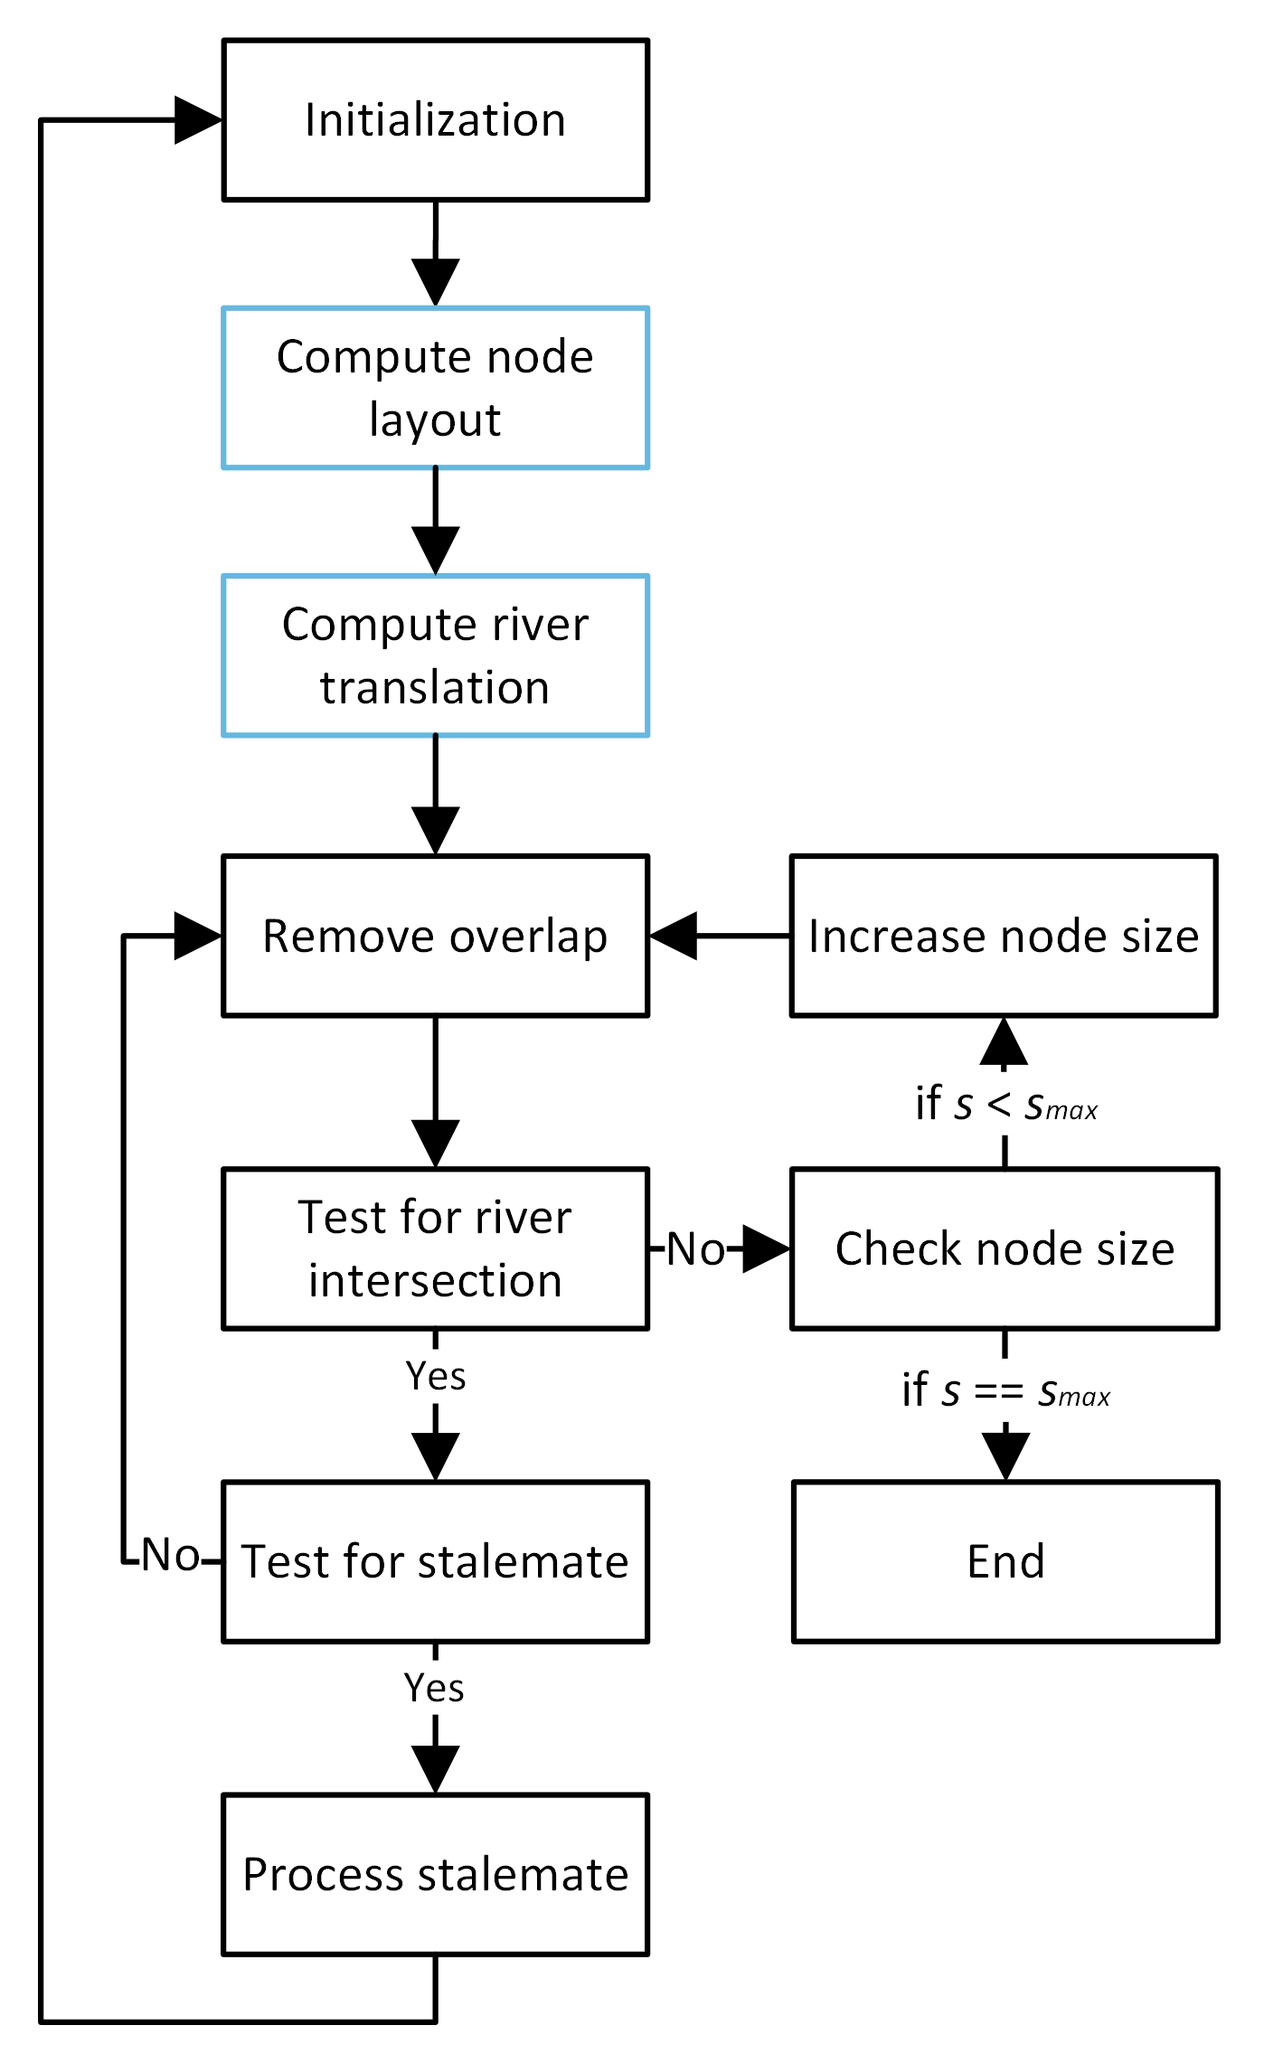
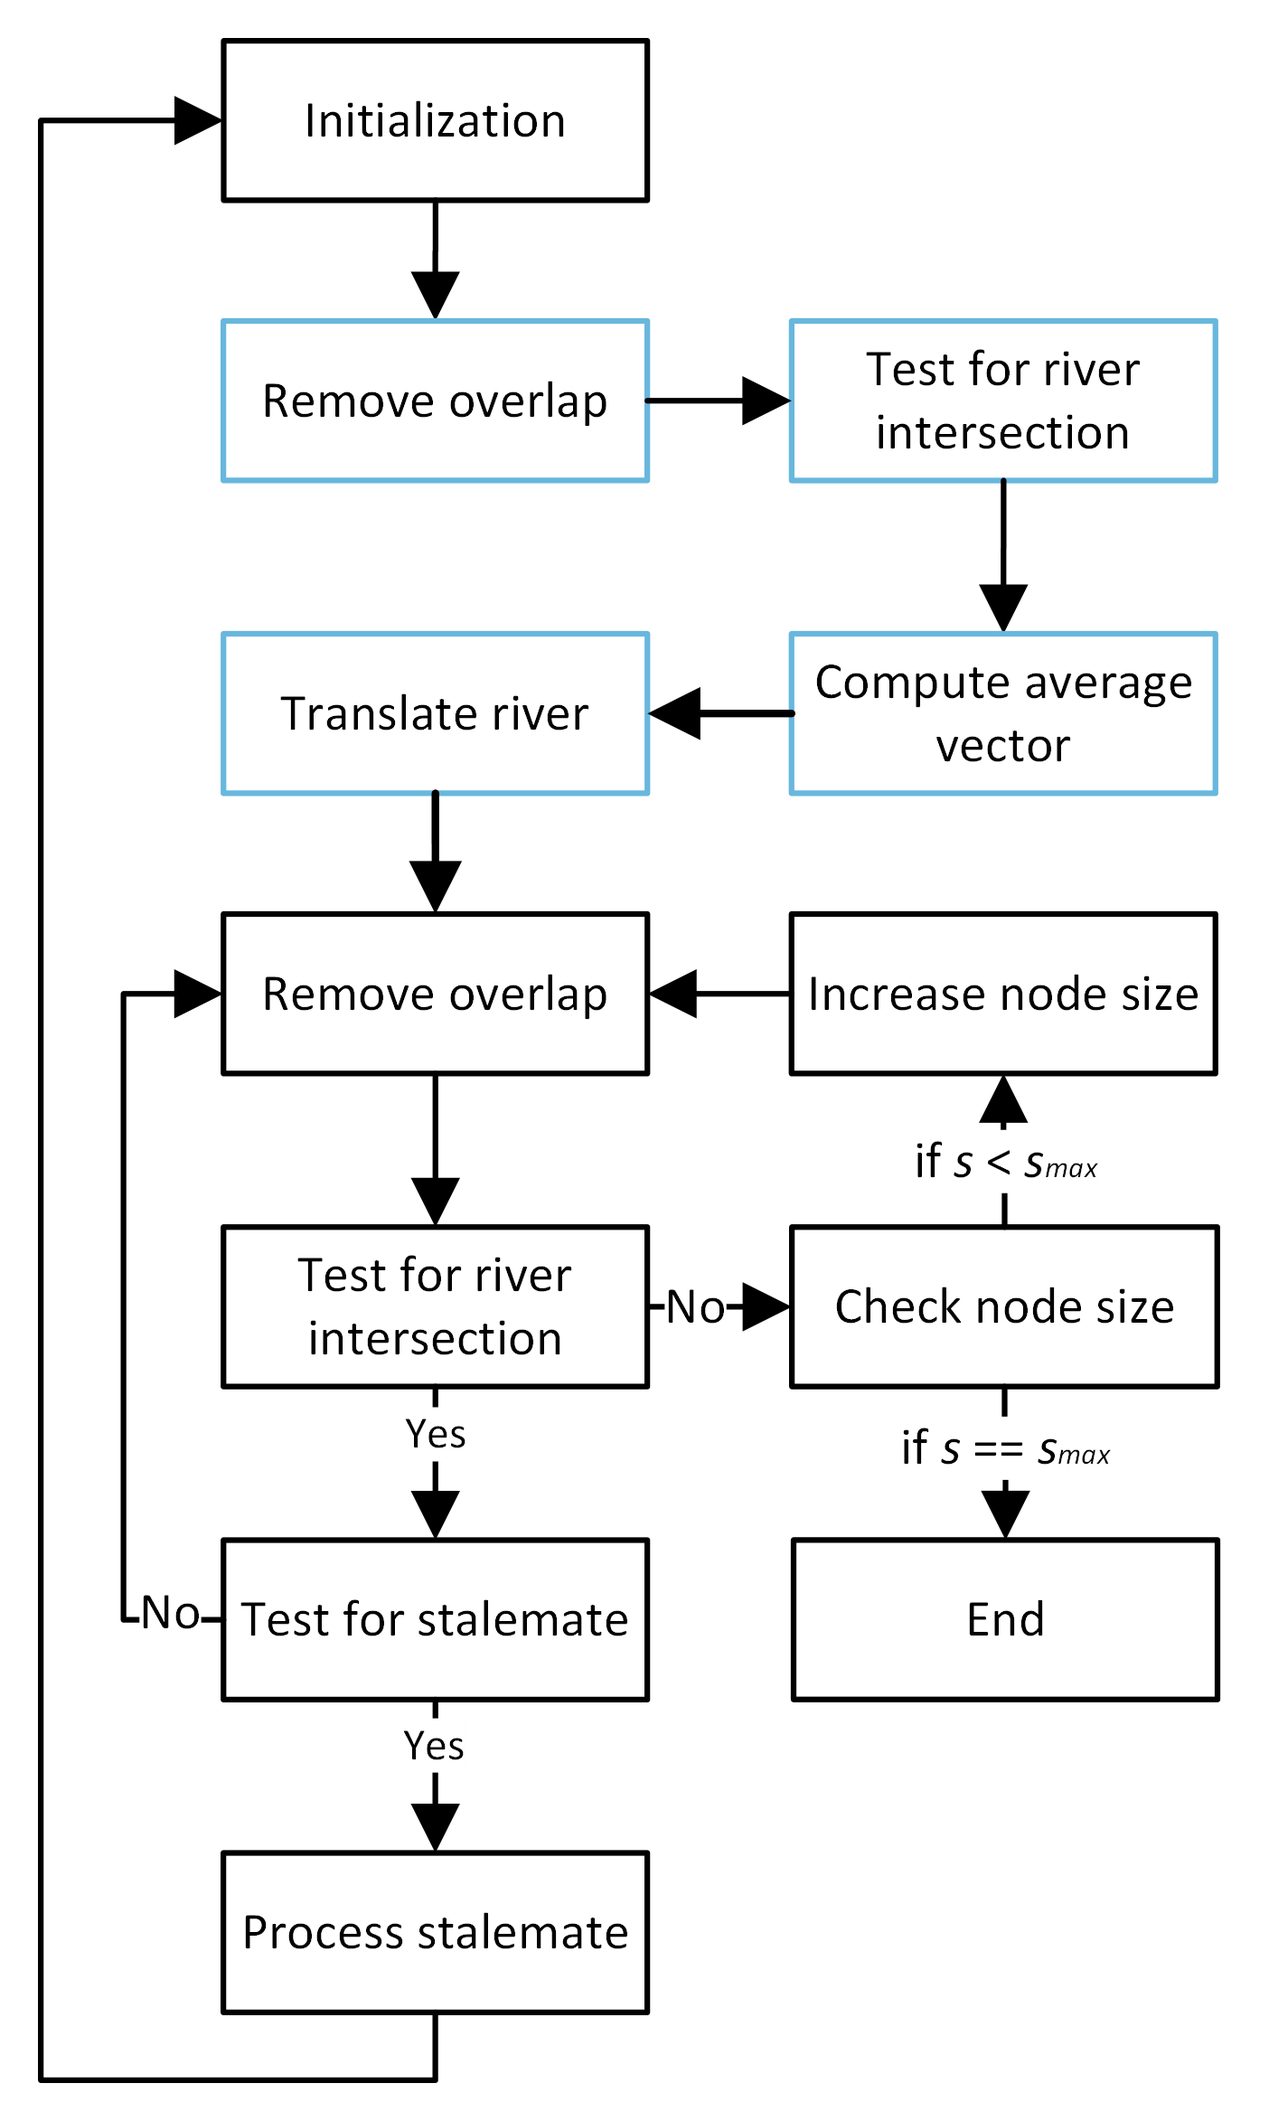
draft: update algorithm

diff --git a/paper/section/main.tex b/paper/section/main.tex
@@ -1,29 +1,29 @@
 \section{Cartograms with Dynamic Features}
 
-{
-\begin{figure}[tb!]
-    \centering
-    \includegraphics[width=\columnwidth]{example-image-a}
-    \caption{An screenshot of \software. Figure TBA.}
-    \label{fig:overview}
-\end{figure}
-}
+ {
+  \begin{figure}[tb!]
+      \centering
+      \includegraphics[width=\columnwidth]{example-image-a}
+      \caption{An screenshot of \software. Figure TBA.}
+      \label{fig:overview}
+  \end{figure}
+ }
 
-{
-    \begin{figure}[tb!]
-        \centering
-        \includegraphics[width=0.8\columnwidth]{figure/flowchart.png}
-        \caption{A flowchart illustration of our layout algorithm.See \figref{fig:flowchart-stalemate} for the flow of processing stalemate. See also \algoref{alg:UpdateNodePosition} for more detail.}
-        \label{fig:flowchart}
-    \end{figure}
+ {
+  \begin{figure}[tb!]
+      \centering
+      \includegraphics[width=0.8\columnwidth]{figure/flowchart.png}
+      \caption{A flowchart illustration of our layout algorithm.See \figref{fig:flowchart-stalemate} for the flow of processing stalemate. See also \algoref{alg:UpdateNodePosition} for more detail.}
+      \label{fig:flowchart}
+  \end{figure}
 
-    \begin{figure}[tb!]
-        \centering
-        \includegraphics[width=0.9\columnwidth]{figure/flowchart stalemate.png}
-        \caption{A flowchart illustration of stalemate processing.}
-        \label{fig:flowchart-stalemate}
-    \end{figure}
-}
+  \begin{figure}[tb!]
+      \centering
+      \includegraphics[width=0.9\columnwidth]{figure/flowchart stalemate.png}
+      \caption{A flowchart illustration of stalemate processing.}
+      \label{fig:flowchart-stalemate}
+  \end{figure}
+ }
 
 \algoref{alg:UpdateNodePosition} and \figref{fig:flowchart} provide an overview of the process.
 
@@ -31,15 +31,16 @@
 
 \bobgraph{Node layout:} The basic algorithm is as follows: we first apply the Fast Node Overlap Removal (FNOR) algorithm that solves the Variable Placement with Separation Constraints (VPSC) problem \cite{dwyer2006fast} in order to remove overlaps. We chose FNOR over other node overlap removal algorithms because FNOR is able to provide spread minimization and node movement minimization while maintaining a good level of global shape preservation \cite{chen2020Node}. We gradually increase the node size by 1 unit at a time to ensure smooth transitions. An increase in $ \nodeSize $ can cause the nodes to overlap. During overlap removal, we compute node trajectories (See \algoref{alg:check river intersection}) and translate nodes to their new position. Nodes that cross a river are translated back to their previous position. If a node oscillates across a river, we process this as a stalemate. This procedure ends when 1) no node overlap is present; 2) no nodes cross a river. We then increase $ \nodeSize $ by one pixel and repeat the algorithm until the max node size $ \nodeSizeMax $ is reached. The gradual size increase process provides stability to the layout and helps minimize geographical error.
 
-% \begin{noindent}
+
 
 \begin{algorithm}[tb!]
-    \caption{Procedure to update node positions by removing overlap and prevent nodes from crossing rivers.}\label{alg:UpdateNodePosition}
+    \caption{Procedure to adjust river positions, remove node overlap and prevent nodes from crossing rivers.}\label{alg:UpdateLayout}
     \textbf{Global variables:} \\
     $ \nodeList \gets $ a list of $ \node $ representing CCGs with the following properties: \\
-    \-\hspace{1em} $ \nodeListCross \gets True $ if any $ \node $ in $ \nodeList $ crosses a river \\
+    \-\hspace{1em}  \textcolor{blue}{$\nodeListCross \gets $ the number of $ \node $ in $ \nodeList $ that crosses a river} \\
     $ \nodeSize \gets $ the current size of all nodes \\
     $ \nodeSizeMax \gets $ the maximum size of a node \\
+    \textcolor{blue}{ $ \riverList \gets $ a list of $ \river $ representing river features} \\
     $ \stalemateMax \gets $ the maximum number of iterations indicating a stalemate \\
 
     \textbf{Local variables:} \\
@@ -49,17 +50,95 @@
     \-\hspace{1em} $ \nodePrevious \gets $ the previous position of $ \node $ \\
     \-\hspace{1em} $ \nodeFNOR \gets $ the translated position of $ \node $ \\
 
+    \begin{algorithmic}[1]
+        \Procedure{UpdateLayout}{}
+        \While{$ \nodeSize < \nodeSizeMax $}
+            \State \textcolor{blue}{$ \nodeListCross \gets 1 $ \Comment{Trigger the while loop}}
+            \While{$ \nodeListCross > 0 $}
+
+                \State $ \nodeListCross \gets 0 $
+                \State $ \nodeList \gets $ RemoveOverlap ($ \nodeList $)
+                \color{blue}
+                \State \Call{TranslateRiver}{$ \nodeList $}
+                \State $\nodeListCross \gets $ \Call{TranslateNode}{$ \nodeList $}
+
+                \color{black}
+
+            \EndWhile
+
+            \State $ \nodeSize \gets \nodeSize ++$
+
+        \EndWhile
+
+        \EndProcedure
+    \end{algorithmic}
+\end{algorithm}
+
+
+\begin{algorithm}[tb!]
+    \caption{Procedure to translate rivers.}\label{alg:TranslateRiver}
+    \color{blue}
+    \textbf{Input:} \\
+    $ \nodeList \gets $ a list of $ \node $ representing CCGs \\
+
+    \textbf{Local variables:} \\
+    $ count \gets $ the number of river crossing nodes \\
+    $ \node \gets $ a node is an object with the following properties: \\
+    \-\hspace{1em} $ \node.x, \node.y, $ or $ \node(x,y) \gets $ the x and y coordinates of $ \node $ \\
+    \-\hspace{1em} $ \nodeCross \gets $ the counter for river crosses for $ \node $ \\
+    \-\hspace{1em} $ \nodePrevious \gets $ the previous position of $ \node $ \\
+    \-\hspace{1em} $ \nodeFNOR \gets $ the translated position of $ \node $ \\
 
     \begin{algorithmic}[1]
-        \Procedure{UpdateNodePosition}{}
-        \While{$ \nodeSize < \nodeSizeMax $}
-            \State $ \nodeListCross \gets True $
-            \While{$ \nodeListCross = True $}
+        \Procedure{TranslateRiver}{$ \nodeList $}
+        \ForEach {$ \river \in \riverList $}
+        \State $ count \gets 0 $
+        \State $ \riverVector \gets (0,0) $ \Comment{Hold the sum of vectors $ \nodeVectorCT $}
+        \ForEach {$ \node \in \nodeList $}
 
-                \State $ \nodeListCross \gets False $
-                \State $ \nodeList \gets $ RemoveOverlap ($ \nodeList $)
+        \If {$ \node(x,y) \neq \nodeFNOR(x,y) $}
+        \If{ \Call{TestIntersection}{$ \nodeFNORLine $, $ \river $} $ = True $}
+        \State $ \riverVector \gets \riverVector + \nodeVectorCT$
+        \State $ count \gets count ++ $
+        \EndIf
 
-                \ForEach {$ \node \in \nodeList $}
+        \EndIf
+
+        \EndFor
+
+        \State Translate river $ \river $ by the average vector $ \frac{\riverVector}{count} $
+        \EndFor
+
+        \EndProcedure
+    \end{algorithmic}
+\end{algorithm}
+
+
+
+\begin{algorithm}[tb!]
+    \caption{Procedure to translate node positions.}\label{alg:TranslateNode}
+
+    \color{blue}
+    \textbf{Input:} \\
+    $ \nodeList \gets $ a list of $ \node $ representing CCGs \\
+
+    \textbf{Output:} \\
+    $ count \gets $ the number of river crossing nodes in the input \\
+
+    \textbf{Global variables:} \\
+    $ \stalemateMax \gets $ the maximum number of iterations indicating a stalemate \\
+
+    \textbf{Local variables:} \\
+    $ \node \gets $ a node is an object with the following properties: \\
+    \-\hspace{1em} $ \node.x, \node.y, $ or $ \node(x,y) \gets $ the x and y coordinates of $ \node $ \\
+    \-\hspace{1em} $ \nodeCross \gets $ the counter for river crosses for $ \node $ \\
+    \-\hspace{1em} $ \nodePrevious \gets $ the previous position of $ \node $ \\
+    \-\hspace{1em} $ \nodeFNOR \gets $ the translated position of $ \node $ \\
+
+    \begin{algorithmic}[1]
+        \Procedure{TranslateNode}{$ \nodeList $}
+        \State $ count \gets 0 $
+        \ForEach {$ \node \in \nodeList $}
 
                     \If {$ \node(x,y) \neq \nodeFNOR(x,y) $}
                         
@@ -67,7 +146,7 @@
 
                         \If{ \Call{TestIntersection}{$ \nodeFNORLine $} $ = True $}
                             \State $ \nodeCross \gets \nodeCross ++ $
-                            \State $ \nodeListCross \gets True $
+                            \State $ count \gets count ++ $
 
                             \If{$ \nodeCross < \stalemateMax $}
                                 \State \hskip-2em \Comment{Translate back to previous position}
@@ -85,121 +164,28 @@
                     \EndIf
 
                 \EndFor
-
-            \EndWhile
-
-            \State $ \nodeSize \gets \nodeSize ++$
-
-        \EndWhile
-
+        \State \Return{$ count $}
         \EndProcedure
     \end{algorithmic}
 \end{algorithm}
 
-
-%\end{noindent}
-
-% \begin{noindent}
-
-    \begin{algorithm}[tb!]
-        \caption{Procedure to adjust river positions, remove node overlap and prevent nodes from crossing rivers.}\label{alg:UpdateLayout}
-        \textbf{Global variables:} \\
-        $ \nodeList \gets $ a list of $ \node $ representing CCGs with the following properties: \\
-        \-\hspace{1em}  \textcolor{blue}{$\nodeListCross \gets $ the number of $ \node $ in $ \nodeList $ that crosses a river} \\
-        $ \nodeSize \gets $ the current size of all nodes \\
-        $ \nodeSizeMax \gets $ the maximum size of a node \\
-        \textcolor{blue}{ $ \riverList \gets $ a list of $ \river $ representing river features} \\
-        $ \stalemateMax \gets $ the maximum number of iterations indicating a stalemate \\
-
-        \textbf{Local variables:} \\
-        $ \node \gets $ a node is an object with the following properties: \\
-        \-\hspace{1em} $ \node.x, \node.y, $ or $ \node(x,y) \gets $ the x and y coordinates of $ \node $ \\
-        \-\hspace{1em} $ \nodeCross \gets $ the counter for river crosses for $ \node $ \\
-        \-\hspace{1em} $ \nodePrevious \gets $ the previous position of $ \node $ \\
-        \-\hspace{1em} $ \nodeFNOR \gets $ the translated position of $ \node $ \\
-
-        \begin{algorithmic}[1]
-            \Procedure{UpdateLayout}{}
-            \While{$ \nodeSize < \nodeSizeMax $}
-                \State \textcolor{blue}{$ \nodeListCross \gets 1 $ \Comment{Trigger the while loop}}
-                \While{$ \nodeListCross > 0 $}
-
-                    \State $ \nodeListCross \gets 0 $
-                    \State $ \nodeList \gets $ RemoveOverlap ($ \nodeList $)
-                    \color{blue}
-                    \ForEach {$ \river \in \riverList $}
-                        \State $ \riverVector \gets (0,0) $ \Comment{Hold the sum of vectors $ \nodeVectorCT $}
-                        \ForEach {$ \node \in \nodeList $}
-
-                            \If {$ \node(x,y) \neq \nodeFNOR(x,y) $}
-                                \If{ \Call{TestIntersection}{$ \nodeFNORLine $, $ \river $} $ = True $}
-                                \State $ \riverVector \gets \riverVector + \nodeVectorCT$
-                                \State $ \nodeListCross \gets \nodeListCross ++ $
-                                \EndIf
-
-                            \EndIf
-
-                        \EndFor
-
-                        \State Translate river $ \river $ by the average vector $ \frac{\riverVector}{\nodeListCross} $
-                        \State $ \nodeListCross \gets 0 $ \Comment{Clear the counter}
-                    \EndFor
+\color{black}
 
 
-                    \color{black}
-                    \ForEach {$ \node \in \nodeList $}
-    
-                        \If {$ \node(x,y) \neq \nodeFNOR(x,y) $}
-                            
-                            \State $ \node(x,y) \gets \nodeFNOR(x,y) $
-    
-                            \If{ \Call{TestIntersection}{$ \nodeFNORLine $} $ = True $}
-                                \State $ \nodeCross \gets \nodeCross ++ $
-                                \State $ \nodeListCross \gets \nodeListCross++ $
-    
-                                \If{$ \nodeCross < \stalemateMax $}
-                                    \State \hskip-2em \Comment{Translate back to previous position}
-                                    \State $ \node(x,y) \gets \nodePrevious(x,y) $
-    
-                                \Else
-    
-                                    \State \Call{ProcessStalemate}{$ \node, \nodeFNOR $}
-                                    \State $ \nodeCross \gets 0 $ \Comment{Reset counter}
-    
-                                \EndIf
-                                
-                            \EndIf
-    
-                        \EndIf
-    
-                    \EndFor
-    
-                \EndWhile
-    
-                \State $ \nodeSize \gets \nodeSize ++$
-    
-            \EndWhile
-    
-            \EndProcedure
-        \end{algorithmic}
-    \end{algorithm}
-    
-    
-%\end{noindent}
 
 \subsection{River Intersection Testing}
 
 We use rivers as topological boundaries and prevent nodes from crossing them. The resolution of rivers can be adjusted by the user, as shown in \figref{fig:river resolution}, the number of vertices is reduced from 10,170 to 30. A pixel-level river resolution is not required as Demers cartograms do not need to represent geography at this level of detail. Instead a resolution that matches the node size is used. Enabling river simplification reduces the number of edge intersection tests that need to be performed. When a node's position changes, we test if the node's trajectory intersects any segment of a river. See \algoref{alg:check river intersection}. A bounding box intersection test between the edge defined by node translation and river edges can be performed to reduce the number of edge intersection tests required.
 
 
-{
-\begin{figure}[tb!]
-    \centering
-    \includegraphics[width=\columnwidth]{figure/river_resolution.png}
-    \caption{The resolution of rivers can be dynamically adjusted by the user. A shows River Thames at its original resolution with 10,170 edges. B shows the river at a reduced resolution of 49 edges. We further smooth the river by removing vertices in dense areas, as shown in C. The reduced resolution preserves the majority of River Thames' original shape and improves the performance of our river intersection tests.}
-    \label{fig:river resolution}
-\end{figure}
-}
+    {
+        \begin{figure}[tb!]
+            \centering
+            \includegraphics[width=\columnwidth]{figure/river_resolution.png}
+            \caption{The resolution of rivers can be dynamically adjusted by the user. A shows River Thames at its original resolution with 10,170 edges. B shows the river at a reduced resolution of 49 edges. We further smooth the river by removing vertices in dense areas, as shown in C. The reduced resolution preserves the majority of River Thames' original shape and improves the performance of our river intersection tests.}
+            \label{fig:river resolution}
+        \end{figure}
+    }
 
 % \begin{noindent}
 \begin{algorithm}[tb!]
@@ -237,23 +223,23 @@ We use rivers as topological boundaries and prevent nodes from crossing them. Th
 
 As the FNOR always attempts to produce an optimal node layout where node distribution and translation are minimized, a node's translation path can repeatedly intersect a river due to congestion, creating a stalemate situation, as shown in \figref{fig:stalemate}. If a node is translated between two positions, $ \node $ and $ \nodeFNOR $, for $ \stalemateMax $ iterations (a user-adjustable parameter), we introduce a heuristic solution: constructing a corridor to alleviate the congestion. A corridor, $ \Corridor $, is a rectangle with a width of $ \CorridorWidth $ and a length of $ \CorridorLength $, formed by deriving two edges $ \EdgeParallelA $ and $ \EdgeParallelB $ such that $ \EdgeParallelA \parallel \EdgeParallelA \parallel \nodeLineNtNc $ (See \figref{fig:corridor}C and D). All nodes enclosed by $ \Corridor $ are then translated by $ \nodeVectorTC $ to alleviate the congestion (See \figref{fig:corridor}E).
 
-{
-\begin{figure}[tb!]
-    \centering
-    \includegraphics[width=\columnwidth]{figure/stalemate.png}
-    \caption{A stalemate situation is when a node's translation path $ \nodeVectorCT $ (in iteration 1) intersects a river $ \stalemateMax $ times. The node is translated back to its previous position (iteration 2). A stalemate often occurs when the area is congested and the node is unable to translate to a new position without intersecting a river.}
-    \label{fig:stalemate}
-\end{figure}
-}
+    {
+        \begin{figure}[tb!]
+            \centering
+            \includegraphics[width=\columnwidth]{figure/stalemate.png}
+            \caption{A stalemate situation is when a node's translation path $ \nodeVectorCT $ (in iteration 1) intersects a river $ \stalemateMax $ times. The node is translated back to its previous position (iteration 2). A stalemate often occurs when the area is congested and the node is unable to translate to a new position without intersecting a river.}
+            \label{fig:stalemate}
+        \end{figure}
+    }
 
-{
-\begin{figure}[tb!]
-    \centering
-    \includegraphics[width=\columnwidth]{figure/corridor.png}
-    \caption{A stalemate occurs when a node's translation path $ \nodeVectorCT $ intersects a river for $ \stalemateMax $ times, as shown in A. To address the issue, we derive a corridor (orange rectangle in E) based on $ \node $ and $ \nodeFNOR $. All nodes within the corridor are translated based on $ \nodeVectorTC $, such that $ \nodeVectorNNn = \nodeVectorNinNinn $. In order to show a clear illustration, we place nodes sparsely in this figure.}
-    \label{fig:corridor}
-\end{figure}
-}
+    {
+        \begin{figure}[tb!]
+            \centering
+            \includegraphics[width=\columnwidth]{figure/corridor.png}
+            \caption{A stalemate occurs when a node's translation path $ \nodeVectorCT $ intersects a river for $ \stalemateMax $ times, as shown in A. To address the issue, we derive a corridor (orange rectangle in E) based on $ \node $ and $ \nodeFNOR $. All nodes within the corridor are translated based on $ \nodeVectorTC $, such that $ \nodeVectorNNn = \nodeVectorNinNinn $. In order to show a clear illustration, we place nodes sparsely in this figure.}
+            \label{fig:corridor}
+        \end{figure}
+    }
 
 % \begin{noindent}
 
